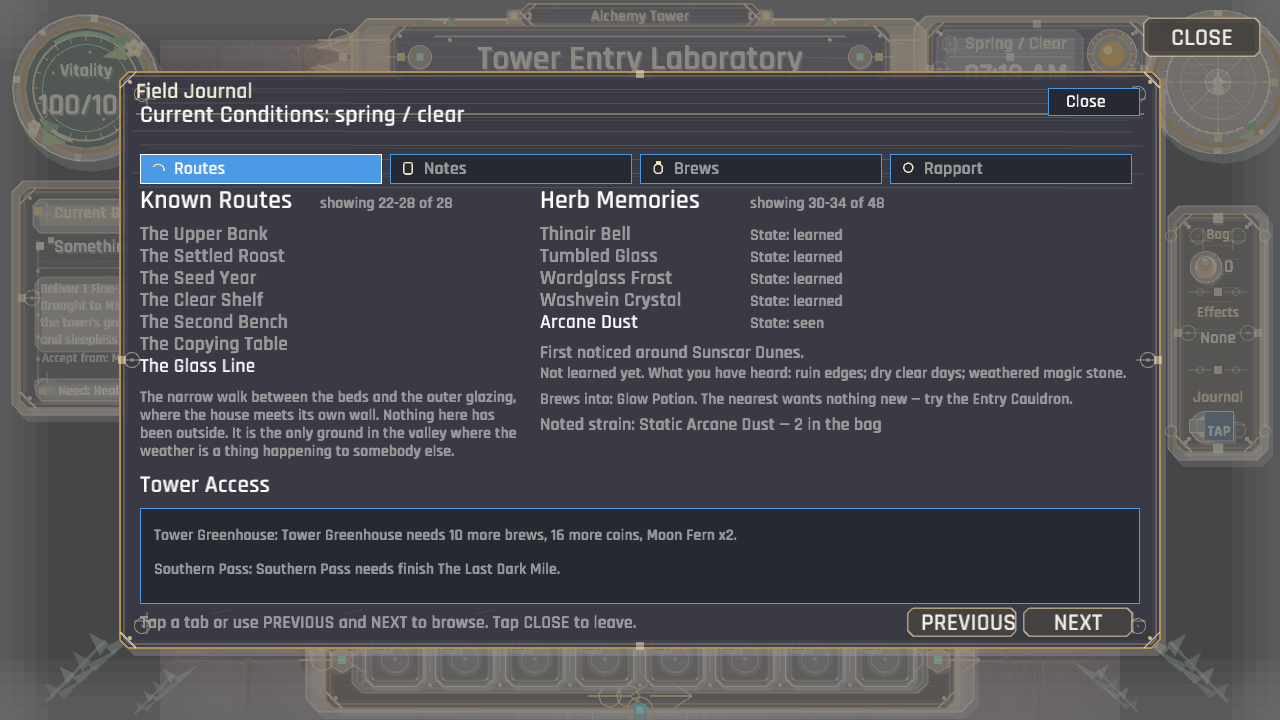
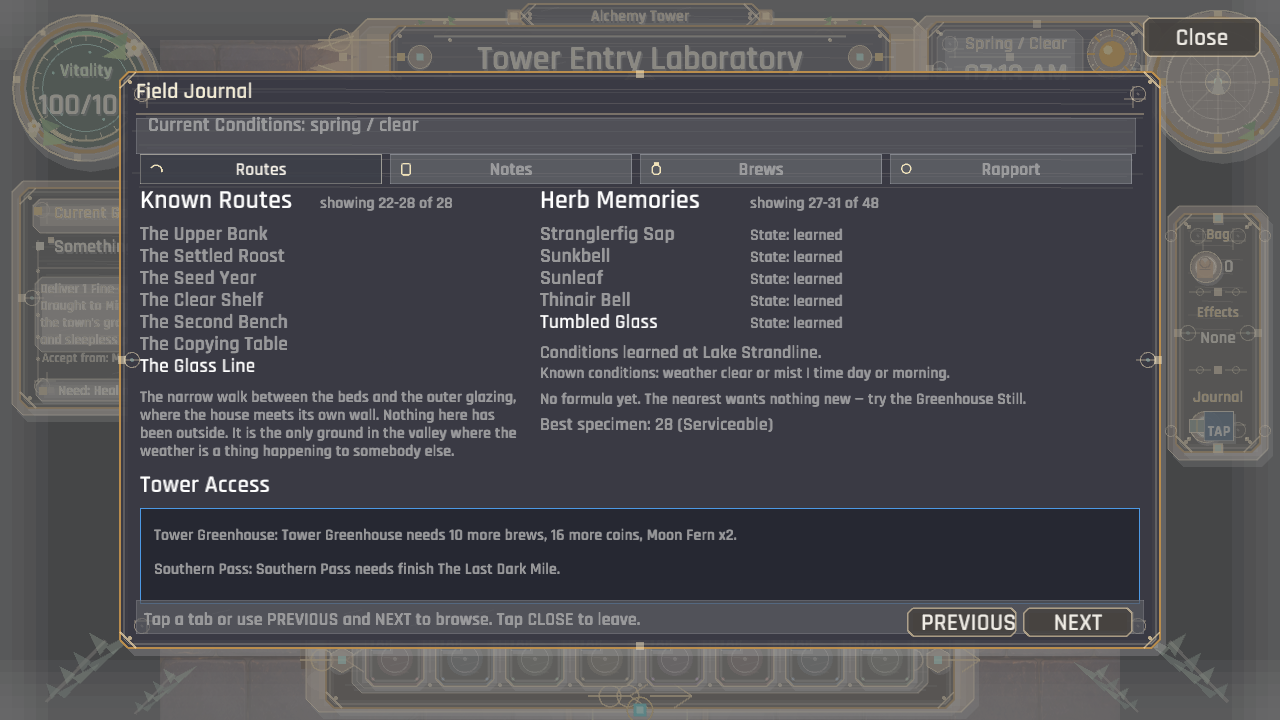
The journal closes with one sure hand (Journal overlay flow)
The Field Journal carried a second, smaller Close button inside its
panel while every other overlay used the generous shared control. Its
header, tabs, and footer were likewise parallel implementations of the
same chrome. The journal now uses those shared surfaces and one exit
target, keeping touch and click handling in the same overlay dispatch
path as the rest of the game.

Journal captures now select stable populated entries: the baseline
shows Tumbled Glass, and the named Arcane Dust detail and Notes tab
cover separate readable states. This keeps the verification images
useful instead of preserving an empty or duplicate screen.

`cargo test --bin alchemy_tower` passes 224 tests, and `.\publish.ps1`
completed the Windows and WebGL release validation.

diff --git a/src/ui/overlay_journal_chrome.rs b/src/ui/overlay_journal_chrome.rs
@@ -1,59 +1,6 @@
 use crate::art::{draw_texture_centered, ArtAssets};
-use crate::input::mouse_position_vec;
 use crate::journal_layout::{journal_next_rect, journal_previous_rect};
 use macroquad::prelude::*;
-use macroquad_toolkit::colors::dark;
-use macroquad_toolkit::ui::draw_ui_text;
-
-pub(crate) fn draw_journal_backdrop() {
-    draw_rectangle(
-        0.0,
-        0.0,
-        crate::ui_scale::ui_w(),
-        crate::ui_scale::ui_h(),
-        Color::from_rgba(0, 0, 0, 150),
-    );
-}
-
-pub(crate) fn draw_journal_close_button(close_rect: Rect, close_label: &str) {
-    let close_hovered = close_rect.contains(mouse_position_vec());
-    draw_rectangle(
-        close_rect.x,
-        close_rect.y,
-        close_rect.w,
-        close_rect.h,
-        if close_hovered {
-            dark::ACCENT
-        } else {
-            Color::from_rgba(38, 40, 50, 255)
-        },
-    );
-    draw_rectangle_lines(
-        close_rect.x,
-        close_rect.y,
-        close_rect.w,
-        close_rect.h,
-        2.0,
-        if close_hovered { WHITE } else { dark::ACCENT },
-    );
-    draw_ui_text(
-        close_label,
-        close_rect.x + 18.0,
-        close_rect.y + 19.0,
-        18.0,
-        dark::TEXT_BRIGHT,
-    );
-}
-
-pub(crate) fn draw_journal_current_conditions(current_conditions_text: &str, x: f32, y: f32) {
-    draw_ui_text(
-        current_conditions_text,
-        x + 20.0,
-        y + 50.0,
-        24.0,
-        dark::TEXT_BRIGHT,
-    );
-}
 
 pub(crate) fn draw_journal_tabs(
     tabs: &[&str],
@@ -65,46 +12,11 @@ pub(crate) fn draw_journal_tabs(
         let Some(rect) = tab_rects.get(index) else {
             break;
         };
-        let selected = selected_index == index;
-        let hovered = rect.contains(mouse_position_vec());
-        draw_rectangle(
-            rect.x,
-            rect.y,
-            rect.w,
-            rect.h,
-            if selected || hovered {
-                dark::ACCENT
-            } else {
-                Color::from_rgba(38, 40, 50, 255)
-            },
-        );
-        draw_rectangle_lines(
-            rect.x,
-            rect.y,
-            rect.w,
-            rect.h,
-            2.0,
-            if selected || hovered {
-                WHITE
-            } else {
-                dark::ACCENT
-            },
-        );
-        draw_ui_text(
-            tab,
-            rect.x + 34.0,
-            rect.y + 20.0,
-            18.0,
-            if selected {
-                dark::TEXT_BRIGHT
-            } else {
-                dark::TEXT_DIM
-            },
-        );
+        super::draw_overlay_tab(*rect, tab, selected_index == index);
         if let Some(texture) = art.journal_tab_by_label(tab) {
             draw_texture_centered(
                 texture,
-                vec2(rect.x + 18.0, rect.y + 14.0),
+                vec2(rect.x + 16.0, rect.y + rect.h * 0.5),
                 vec2(18.0, 18.0),
                 WHITE,
             );
@@ -112,8 +24,8 @@ pub(crate) fn draw_journal_tabs(
     }
 }
 
-pub(crate) fn draw_journal_footer(footer_text: &str, x: f32, y: f32, h: f32) {
-    draw_ui_text(footer_text, x + 20.0, y + h - 20.0, 18.0, dark::TEXT_DIM);
+pub(crate) fn draw_journal_footer(footer_text: &str, x: f32, y: f32, w: f32, h: f32) {
+    super::draw_overlay_footer(x, y, w, h, footer_text);
     super::draw_action_button(journal_previous_rect(), "PREVIOUS", 13.0);
     super::draw_action_button(journal_next_rect(), "NEXT", 15.0);
 }

diff --git a/src/state/gameplay_journal_overlay_draw.rs b/src/state/gameplay_journal_overlay_draw.rs
@@ -1,15 +1,15 @@
 use super::GameplayState;
 use crate::art::ArtAssets;
 use crate::data::GameData;
-use crate::journal_layout::{journal_close_rect, journal_panel_rect, journal_tab_rect};
+use crate::journal_layout::{journal_panel_rect, journal_tab_rect};
 use crate::ui::{
-    draw_journal_backdrop, draw_journal_close_button, draw_journal_current_conditions,
-    draw_journal_footer, draw_journal_tabs, draw_panel,
+    draw_journal_footer, draw_journal_tabs, draw_overlay_backdrop, draw_overlay_subtitle,
+    draw_panel,
 };
 
 impl GameplayState {
     pub(super) fn draw_field_journal(&self, data: &GameData, art: &ArtAssets) {
-        draw_journal_backdrop();
+        draw_overlay_backdrop();
         let panel = journal_panel_rect();
         let x = panel.x;
         let y = panel.y;
@@ -17,8 +17,7 @@ impl GameplayState {
         let h = panel.h;
         let chrome = self.journal_chrome_view();
         draw_panel(x, y, w, h, chrome.title);
-        draw_journal_close_button(journal_close_rect(), chrome.close_label);
-        draw_journal_current_conditions(&chrome.current_conditions_text, x, y);
+        draw_overlay_subtitle(x, y, &chrome.current_conditions_text);
         let tab_rects: Vec<_> = (0..chrome.tabs.len())
             .map(|index| journal_tab_rect(index, chrome.tabs.len()))
             .collect();
@@ -33,6 +32,6 @@ impl GameplayState {
             }
             _ => self.draw_journal_rapport_tab(data, x, y, w, h),
         }
-        draw_journal_footer(&chrome.footer_text, x, y, h);
+        draw_journal_footer(&chrome.footer_text, x, y, w, h);
     }
 }

diff --git a/src/game.rs b/src/game.rs
@@ -191,17 +191,17 @@ impl Game {
                 GameState::from_gameplay(gameplay)
             }
             // "journal[:<herb>]" opens the journal on the herb-memory tab.
-            // Naming a herb id is how the longest entry in the game gets
-            // photographed: the entry box holds about four lines and the
-            // arithmetic guarding it is deliberately generous, so the worst
-            // case has to be looked at rather than trusted.
+            // The default names a stable, detailed entry, so the baseline
+            // capture always shows both lists and a detail pane; naming a
+            // different herb is how the longest entry gets photographed.
             other if other.starts_with("journal") => {
-                let herb_id = other.strip_prefix("journal:").unwrap_or_default();
+                let herb_id = other
+                    .strip_prefix("journal:")
+                    .filter(|item_id| !item_id.is_empty())
+                    .unwrap_or("tumbled_glass");
                 let mut gameplay = GameplayState::new(&self.data);
                 gameplay.open_journal_sample(&self.data);
-                if !herb_id.is_empty() {
-                    gameplay.select_journal_herb(&self.data, herb_id);
-                }
+                gameplay.select_journal_herb(&self.data, herb_id);
                 GameState::from_gameplay(gameplay)
             }
             "brews_journal" => {

diff --git a/src/state/gameplay_overlay_input_dispatch.rs b/src/state/gameplay_overlay_input_dispatch.rs
@@ -7,9 +7,7 @@ use crate::input::{
     rect_contains_point, select_next_pressed, select_previous_pressed, switch_next_pressed,
     switch_previous_pressed,
 };
-use crate::journal_layout::{
-    journal_close_rect, journal_next_rect, journal_previous_rect, journal_tab_rect,
-};
+use crate::journal_layout::{journal_next_rect, journal_previous_rect, journal_tab_rect};
 
 #[path = "gameplay_overlay_input_text.rs"]
 mod overlay_input_text;
@@ -72,11 +70,6 @@ impl GameplayState {
         self.ui.journal_tab = self.ui.journal_tab.min(journal_tab_count.saturating_sub(1));
         if left_mouse_pressed() {
             let mouse = mouse_position_point();
-            if rect_contains_point(journal_close_rect(), mouse) {
-                self.clear_overlay();
-                self.runtime.status_text = overlay_input_text::closed_journal();
-                return;
-            }
             if rect_contains_point(journal_previous_rect(), mouse) {
                 self.ui.journal_index = self.ui.journal_index.saturating_sub(1);
                 return;

diff --git a/src/ui.rs b/src/ui.rs
@@ -53,8 +53,7 @@ pub(crate) use overlay_exports::{
     draw_archive_duplication_section_view, draw_archive_experiments_section_view,
     draw_archive_mastery_section_view, draw_archive_morphs_section_view, draw_archive_tabs,
     draw_archive_timeline_section_view, draw_brew_bubble_effect, draw_dialogue_overlay_view,
-    draw_ending_overlay_view, draw_journal_backdrop, draw_journal_brews_tab_view,
-    draw_journal_close_button, draw_journal_current_conditions, draw_journal_footer,
+    draw_ending_overlay_view, draw_journal_brews_tab_view, draw_journal_footer,
     draw_journal_greenhouse_tab_view, draw_journal_notes_tab_view, draw_journal_rapport_tab_view,
     draw_journal_routes_tab_view, draw_journal_tabs, draw_overlay_section_box,
     draw_overlay_section_title, draw_overlay_tab, draw_pause_overlay,

diff --git a/src/ui/panels.rs b/src/ui/panels.rs
@@ -3,6 +3,7 @@ use macroquad_toolkit::colors::dark;
 
 use super::hud::{brass_light, bright_ink, draw_ornate_panel, draw_panel_filigree, fill_slate};
 use super::{draw_wrapped_text, truncate_text_to_width};
+use crate::content::ui_copy;
 use macroquad_toolkit::ui::draw_ui_text;
 
 pub(crate) fn draw_panel(x: f32, y: f32, width: f32, height: f32, title: &str) {
@@ -91,7 +92,11 @@ pub(crate) fn draw_overlay_footer(x: f32, y: f32, w: f32, h: f32, text: &str) {
 }
 
 pub(crate) fn draw_overlay_close_control() {
-    super::draw_action_button(super::overlay_layout::overlay_close_rect(), "CLOSE", 16.0);
+    super::draw_action_button(
+        super::overlay_layout::overlay_close_rect(),
+        ui_copy("overlay_close"),
+        16.0,
+    );
 }
 
 pub(crate) fn draw_overlay_primary_action(label: &str) {

diff --git a/src/ui/overlay_exports.rs b/src/ui/overlay_exports.rs
@@ -18,10 +18,7 @@ pub(crate) use super::overlay_chrome::{
 pub(crate) use super::overlay_dialogue::draw_dialogue_overlay_view;
 pub(crate) use super::overlay_ending::draw_ending_overlay_view;
 pub(crate) use super::overlay_journal_brews::draw_journal_brews_tab_view;
-pub(crate) use super::overlay_journal_chrome::{
-    draw_journal_backdrop, draw_journal_close_button, draw_journal_current_conditions,
-    draw_journal_footer, draw_journal_tabs,
-};
+pub(crate) use super::overlay_journal_chrome::{draw_journal_footer, draw_journal_tabs};
 pub(crate) use super::overlay_journal_greenhouse::draw_journal_greenhouse_tab_view;
 pub(crate) use super::overlay_journal_notes::draw_journal_notes_tab_view;
 #[cfg(test)]

diff --git a/src/state/gameplay_overlay_draw_dispatch.rs b/src/state/gameplay_overlay_draw_dispatch.rs
@@ -40,7 +40,7 @@ impl GameplayState {
             OverlayScreen::Journal => self.draw_field_journal(data, art),
             OverlayScreen::Alchemy => self.draw_alchemy_overlay(data, art),
         }
-        if !matches!(overlay, OverlayScreen::Alchemy | OverlayScreen::Journal) {
+        if !matches!(overlay, OverlayScreen::Alchemy) {
             crate::ui::draw_overlay_close_control();
         }
         crate::ui_scale::set_overlay_mouse(false);

diff --git a/src/journal_layout.rs b/src/journal_layout.rs
@@ -17,11 +17,6 @@ pub(crate) fn journal_tab_rect(index: usize, tab_count: usize) -> Rect {
     )
 }
 
-pub(crate) fn journal_close_rect() -> Rect {
-    let panel = journal_panel_rect();
-    Rect::new(panel.x + panel.w - 112.0, panel.y + 16.0, 92.0, 28.0)
-}
-
 pub(crate) fn journal_previous_rect() -> Rect {
     let panel = journal_panel_rect();
     Rect::new(

diff --git a/src/state/gameplay_journal_overlay_view.rs b/src/state/gameplay_journal_overlay_view.rs
@@ -6,7 +6,6 @@ impl GameplayState {
     pub(super) fn journal_chrome_view(&self) -> JournalChromeView {
         JournalChromeView {
             title: ui_copy("overlay_journal_title"),
-            close_label: ui_copy("overlay_close"),
             current_conditions_text: ui_format(
                 "overlay_current_conditions",
                 &[

diff --git a/src/view_models/journal.rs b/src/view_models/journal.rs
@@ -1,6 +1,5 @@
 pub(crate) struct JournalChromeView {
     pub(crate) title: &'static str,
-    pub(crate) close_label: &'static str,
     pub(crate) current_conditions_text: String,
     pub(crate) tabs: Vec<&'static str>,
     pub(crate) footer_text: String,
